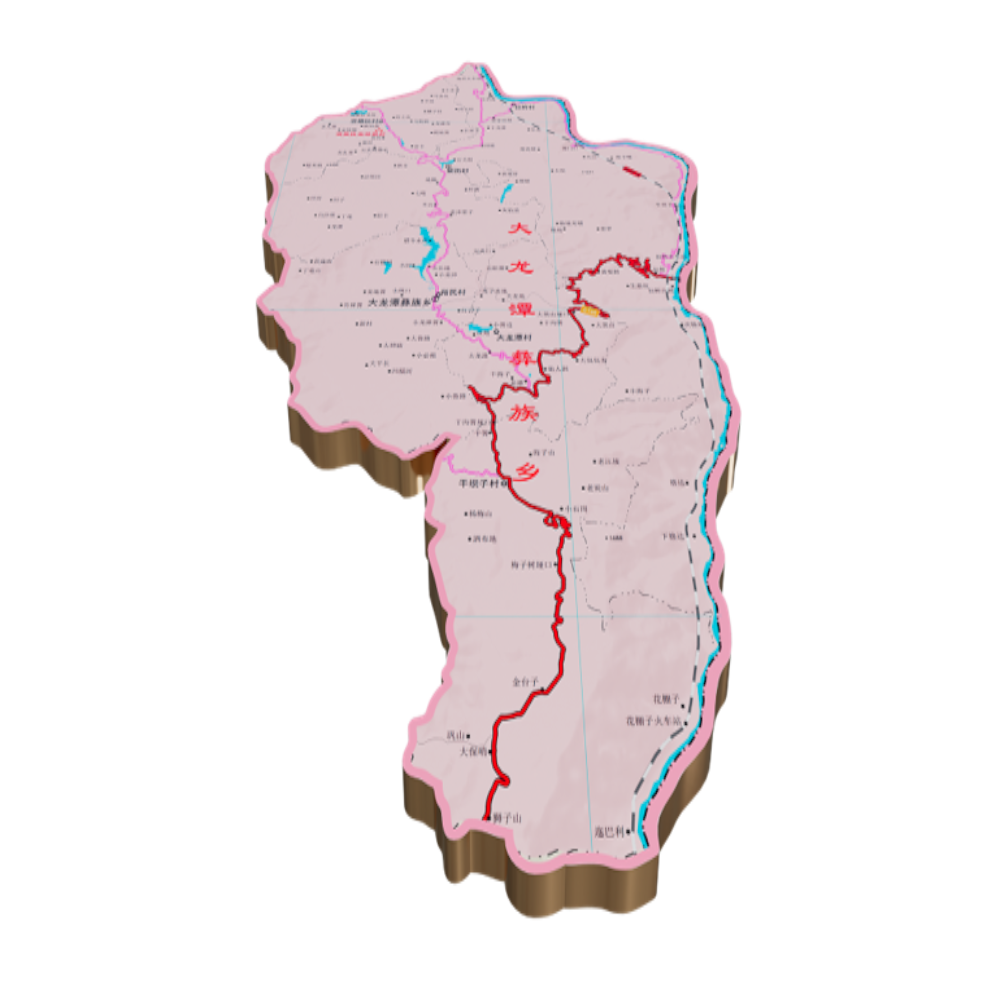
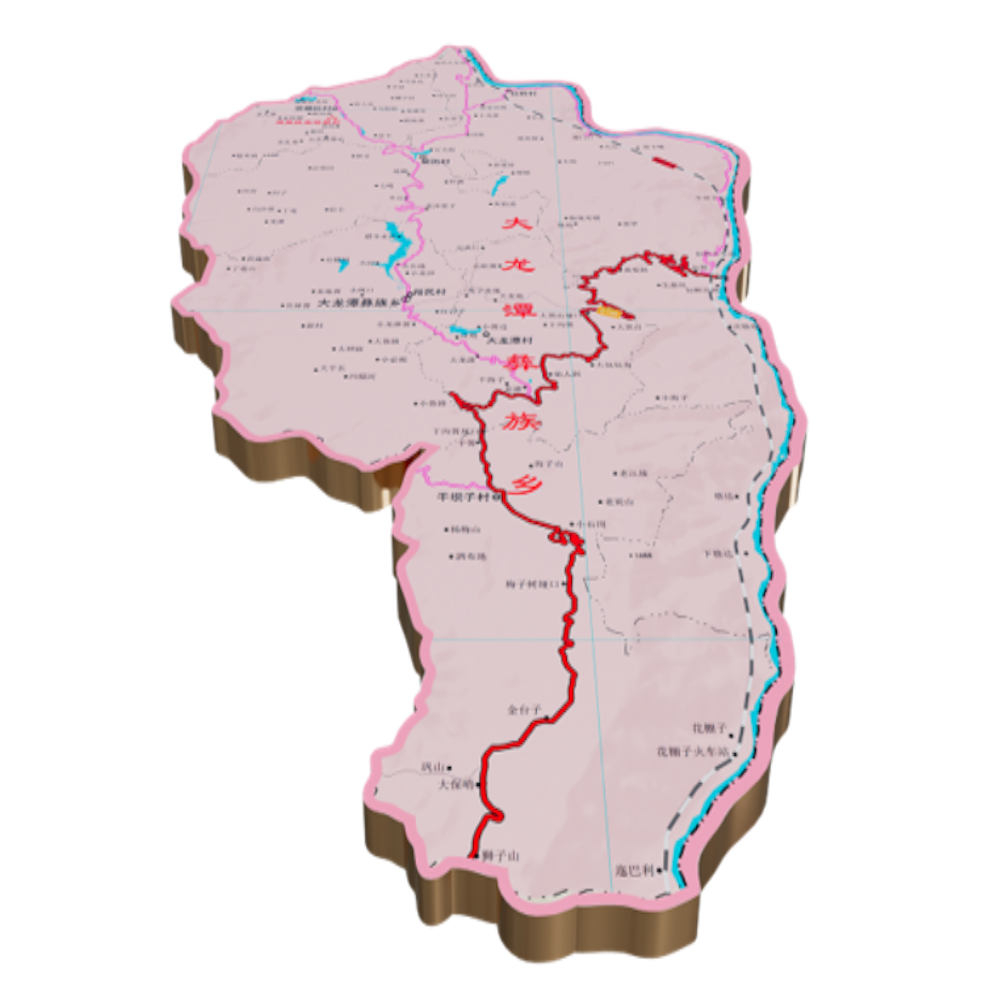
res完善

Changed region(s): [[0.155, 0.031, 0.806, 0.961], [0.31, 0.186, 0.341, 0.217]]

diff --git a/src/views/res/dashboard/street/index.vue b/src/views/res/dashboard/street/index.vue
@@ -36,7 +36,7 @@
               </div>
             </div>
             <div class="margin-top target-content">
-              <antvImageMap :areaCode="areaCode" areaGoTo="village" :center="[500,480]" :zoom="2.2"/>
+              <antvImageMap :areaCode="areaCode" areaGoTo="village" :center="[500,480]" :zoom="2.1"/>
             </div>
 
           </el-col>
